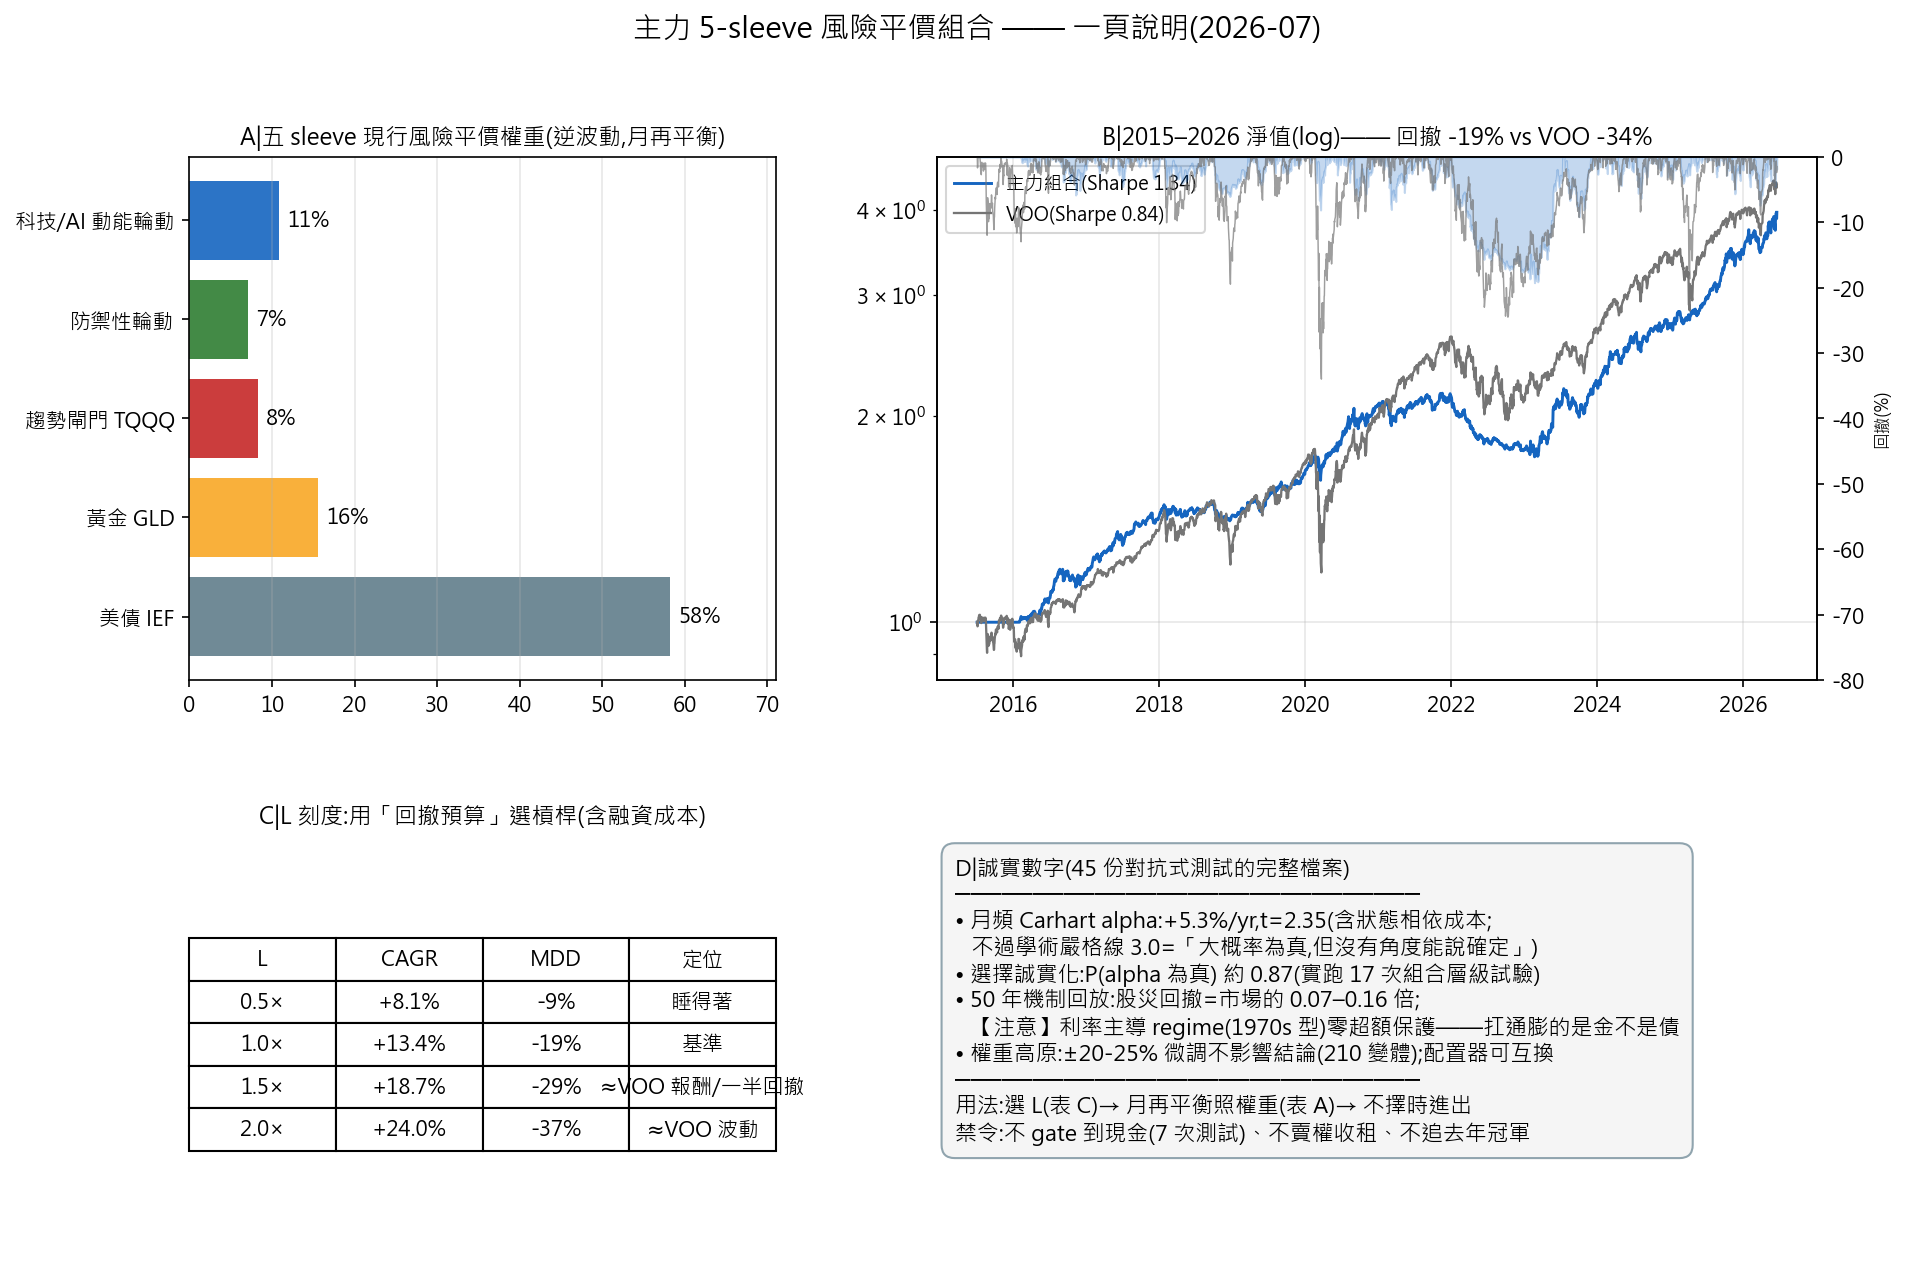
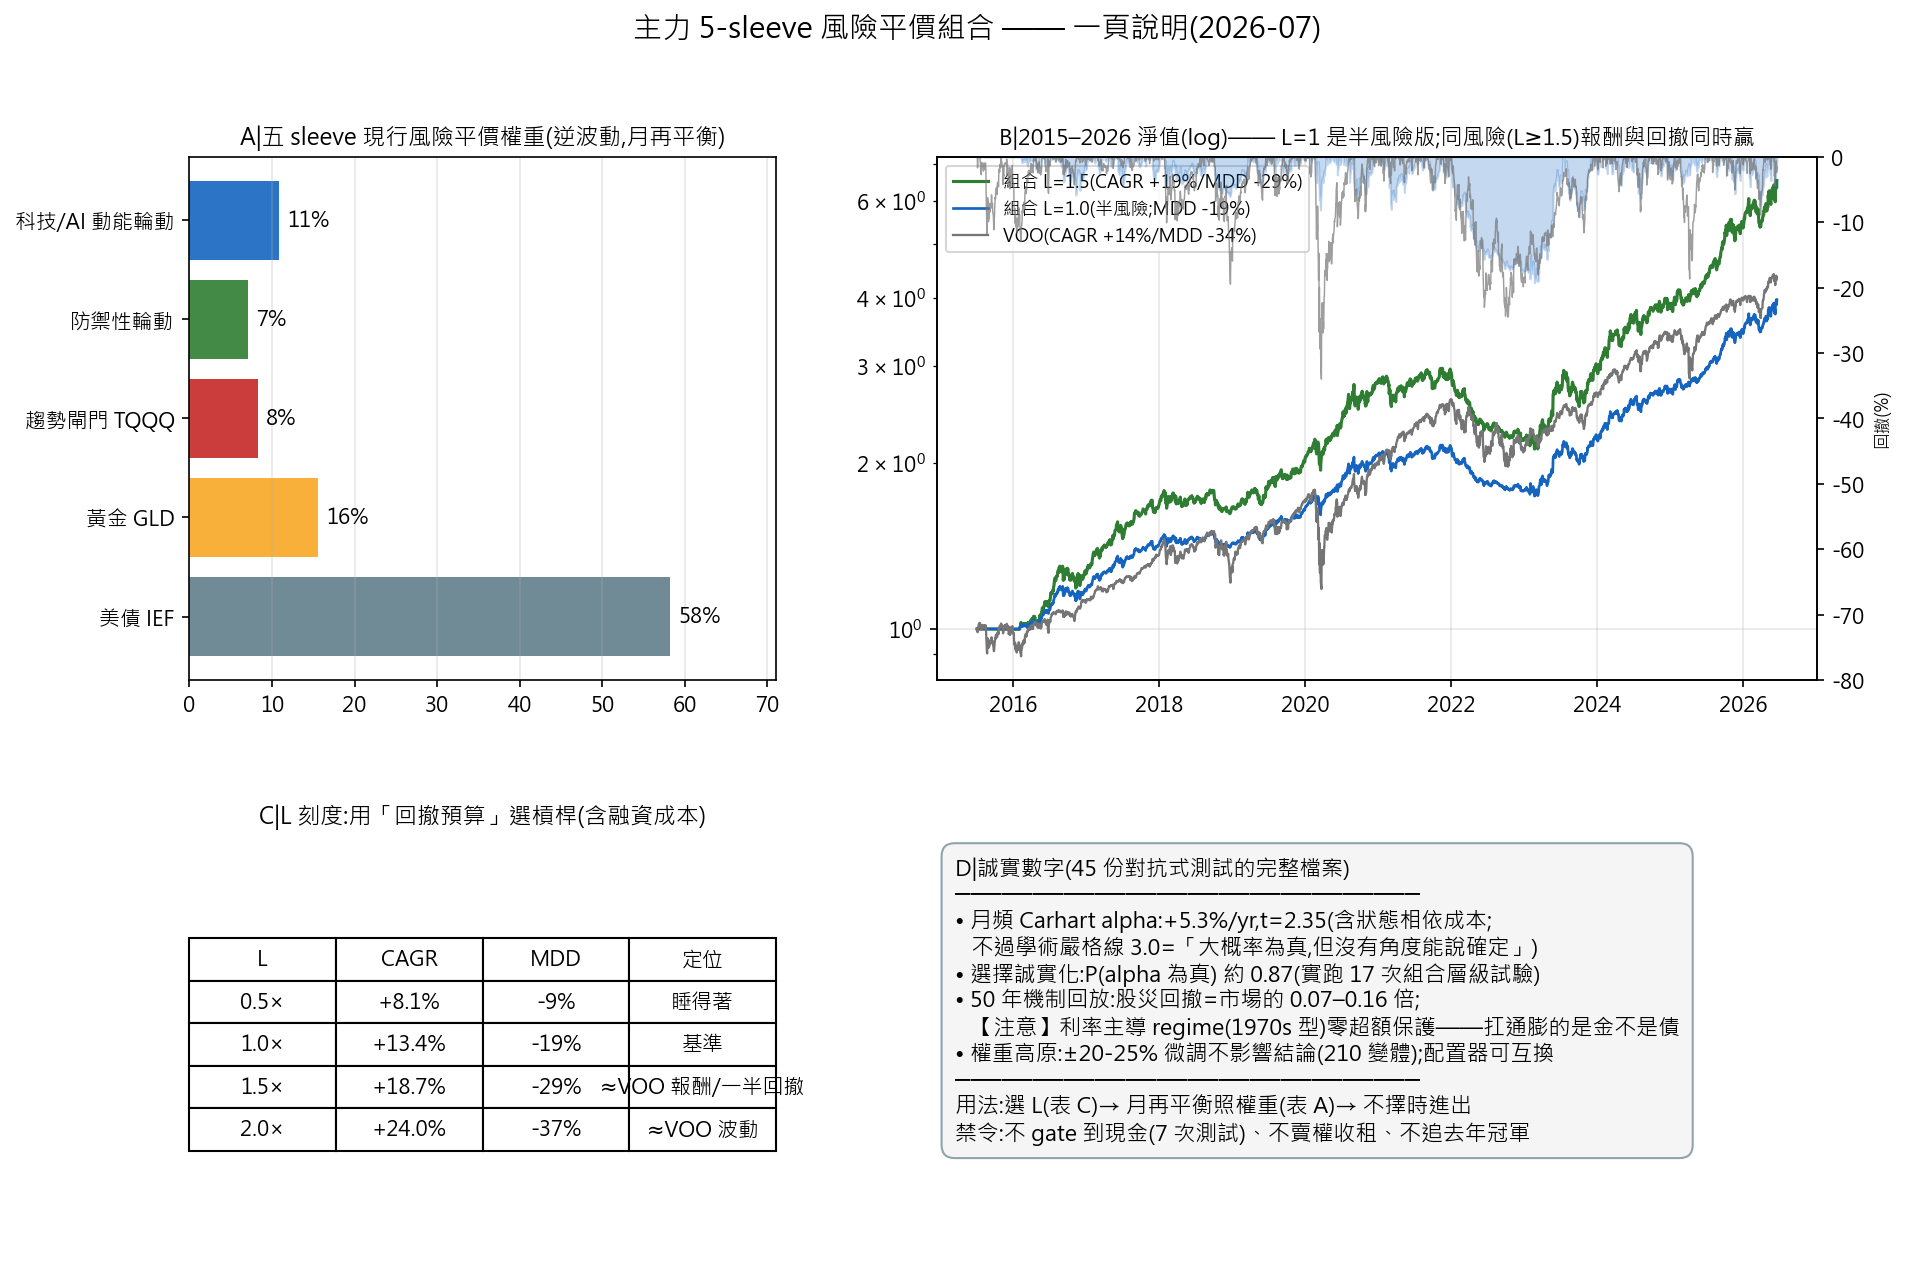
One-pager fix: the NAV panel now shows the same-risk L=1.5 line -- user caught the half-truth
The user read panel B correctly: the raw (L=1) combo line ends BELOW VOO, and
with only those two lines the chart tells half the story ("loses to VOO")
when the documented truth (docs/13 9E) is "half the vol; levered to a
comparable risk budget it wins on BOTH axes". Panel B now carries three
lines: L=1.5 (CAGR +19%/MDD -29%, net of financing) above VOO (+14%/-34%),
with L=1.0 explicitly labeled as the half-risk version. Presentation now
matches the claim instead of underselling it.

Changed region(s): [[0.4955, 0.1537, 0.9291, 0.5225], [0.4336, 0.0922, 0.9291, 0.2151], [0.4646, 0.2151, 0.4955, 0.2459]]

diff --git a/scripts/flagship_onepager.py b/scripts/flagship_onepager.py
@@ -72,18 +72,26 @@ def main():
     ax.set_title("A|五 sleeve 現行風險平價權重(逆波動,月再平衡)", fontsize=11)
     ax.grid(alpha=0.3, axis="x")
 
-    # B: NAV + drawdown
+    # B: NAV + drawdown -- the honest comparison needs BOTH lines: raw (half-risk)
+    # AND the same-risk L=1.5 version, else the picture reads "loses to VOO" when
+    # the truth is "half the vol; levered to comparable risk it wins on both axes".
     ax = fig.add_subplot(gs[0, 1])
+    r15 = 1.5 * rp - 0.5 * (rf_d + FIN_SPREAD / 252)
     nav_c = (1 + rp).cumprod()
+    nav_15 = (1 + r15).cumprod()
     nav_v = (1 + voo).cumprod()
-    ax.plot(nav_c.index, nav_c, lw=1.4, color="#1565c0",
-            label=f"主力組合(Sharpe {stats(rp)[2]:.2f})")
+    c15, m15, _ = stats(r15)
+    cv, mv, sv = stats(voo)
+    ax.plot(nav_15.index, nav_15, lw=1.5, color="#2e7d32",
+            label=f"組合 L=1.5(CAGR {c15:+.0%}/MDD {m15:+.0%})")
+    ax.plot(nav_c.index, nav_c, lw=1.3, color="#1565c0",
+            label=f"組合 L=1.0(半風險;MDD {stats(rp)[1]:+.0%})")
     ax.plot(nav_v.index, nav_v, lw=1.1, color="#757575",
-            label=f"VOO(Sharpe {stats(voo)[2]:.2f})")
+            label=f"VOO(CAGR {cv:+.0%}/MDD {mv:+.0%})")
     ax.set_yscale("log")
-    ax.legend(fontsize=9, loc="upper left")
-    ax.set_title(f"B|2015–2026 淨值(log)—— 回撤 {stats(rp)[1]:+.0%} vs VOO {stats(voo)[1]:+.0%}",
-                 fontsize=11)
+    ax.legend(fontsize=8.5, loc="upper left")
+    ax.set_title("B|2015–2026 淨值(log)—— L=1 是半風險版;同風險(L≥1.5)報酬與回撤同時贏",
+                 fontsize=10.5)
     ax.grid(alpha=0.3)
     ax2 = ax.twinx()
     dd = nav_c / nav_c.cummax() - 1